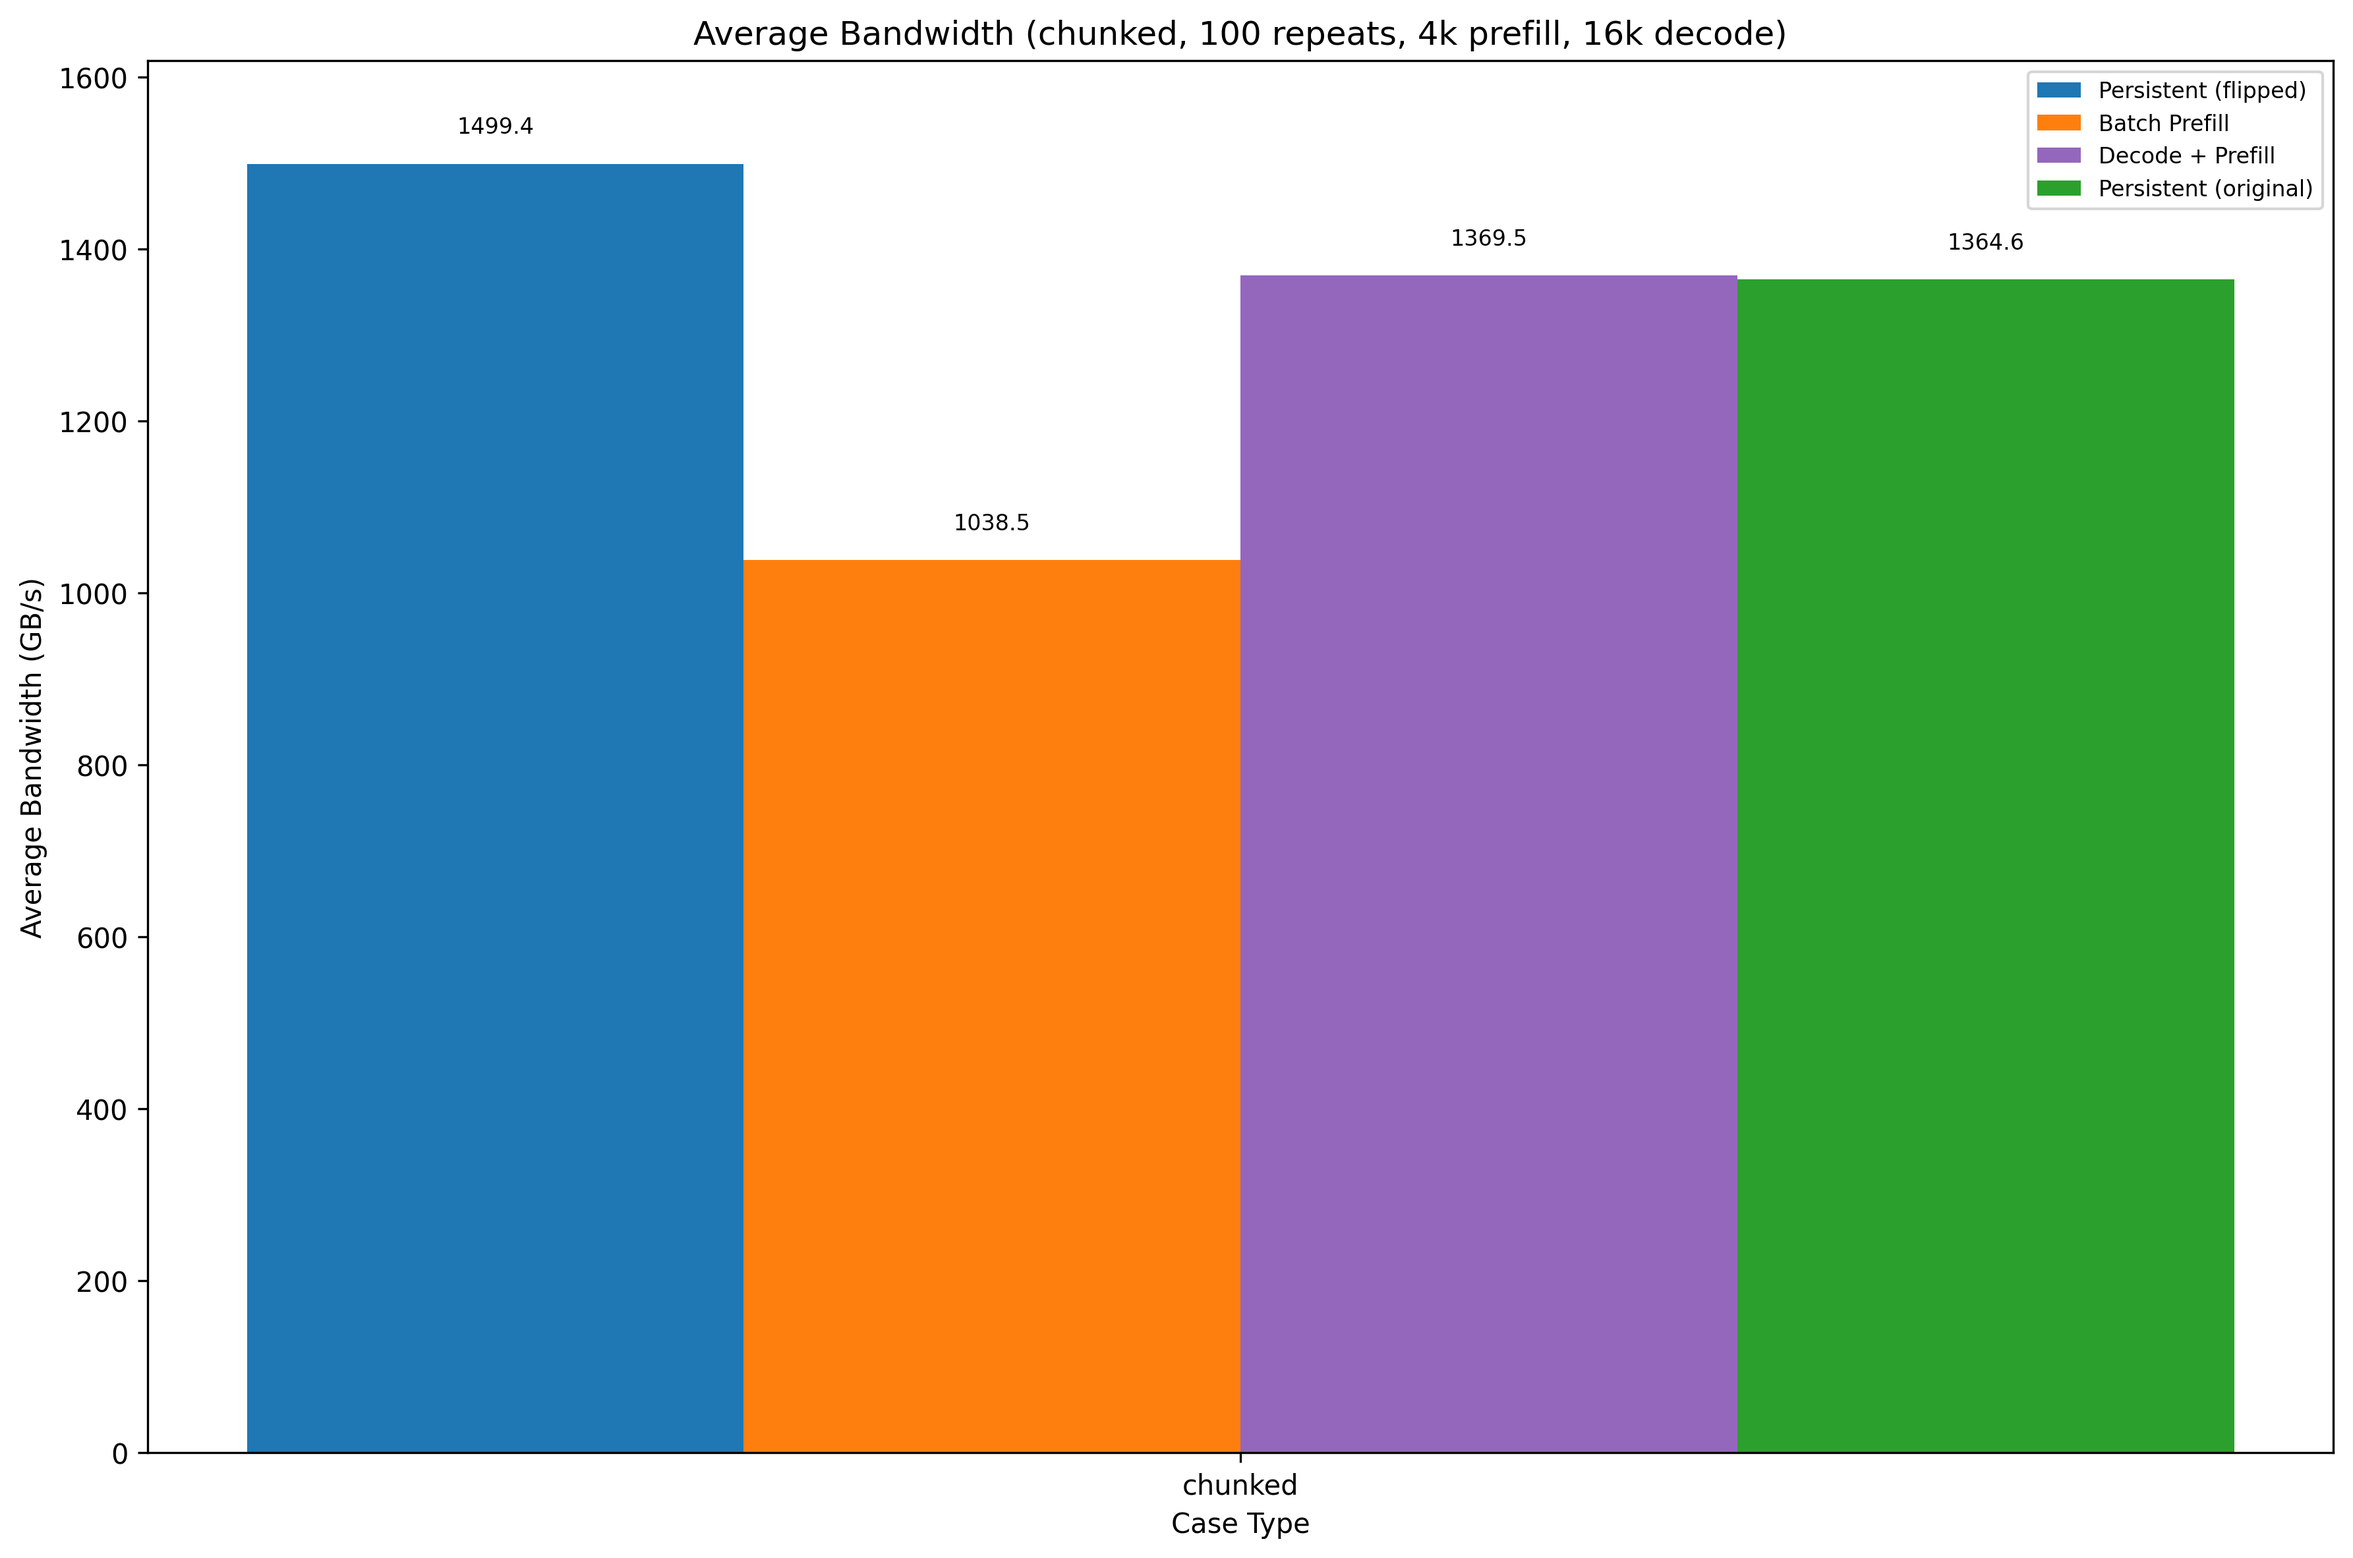
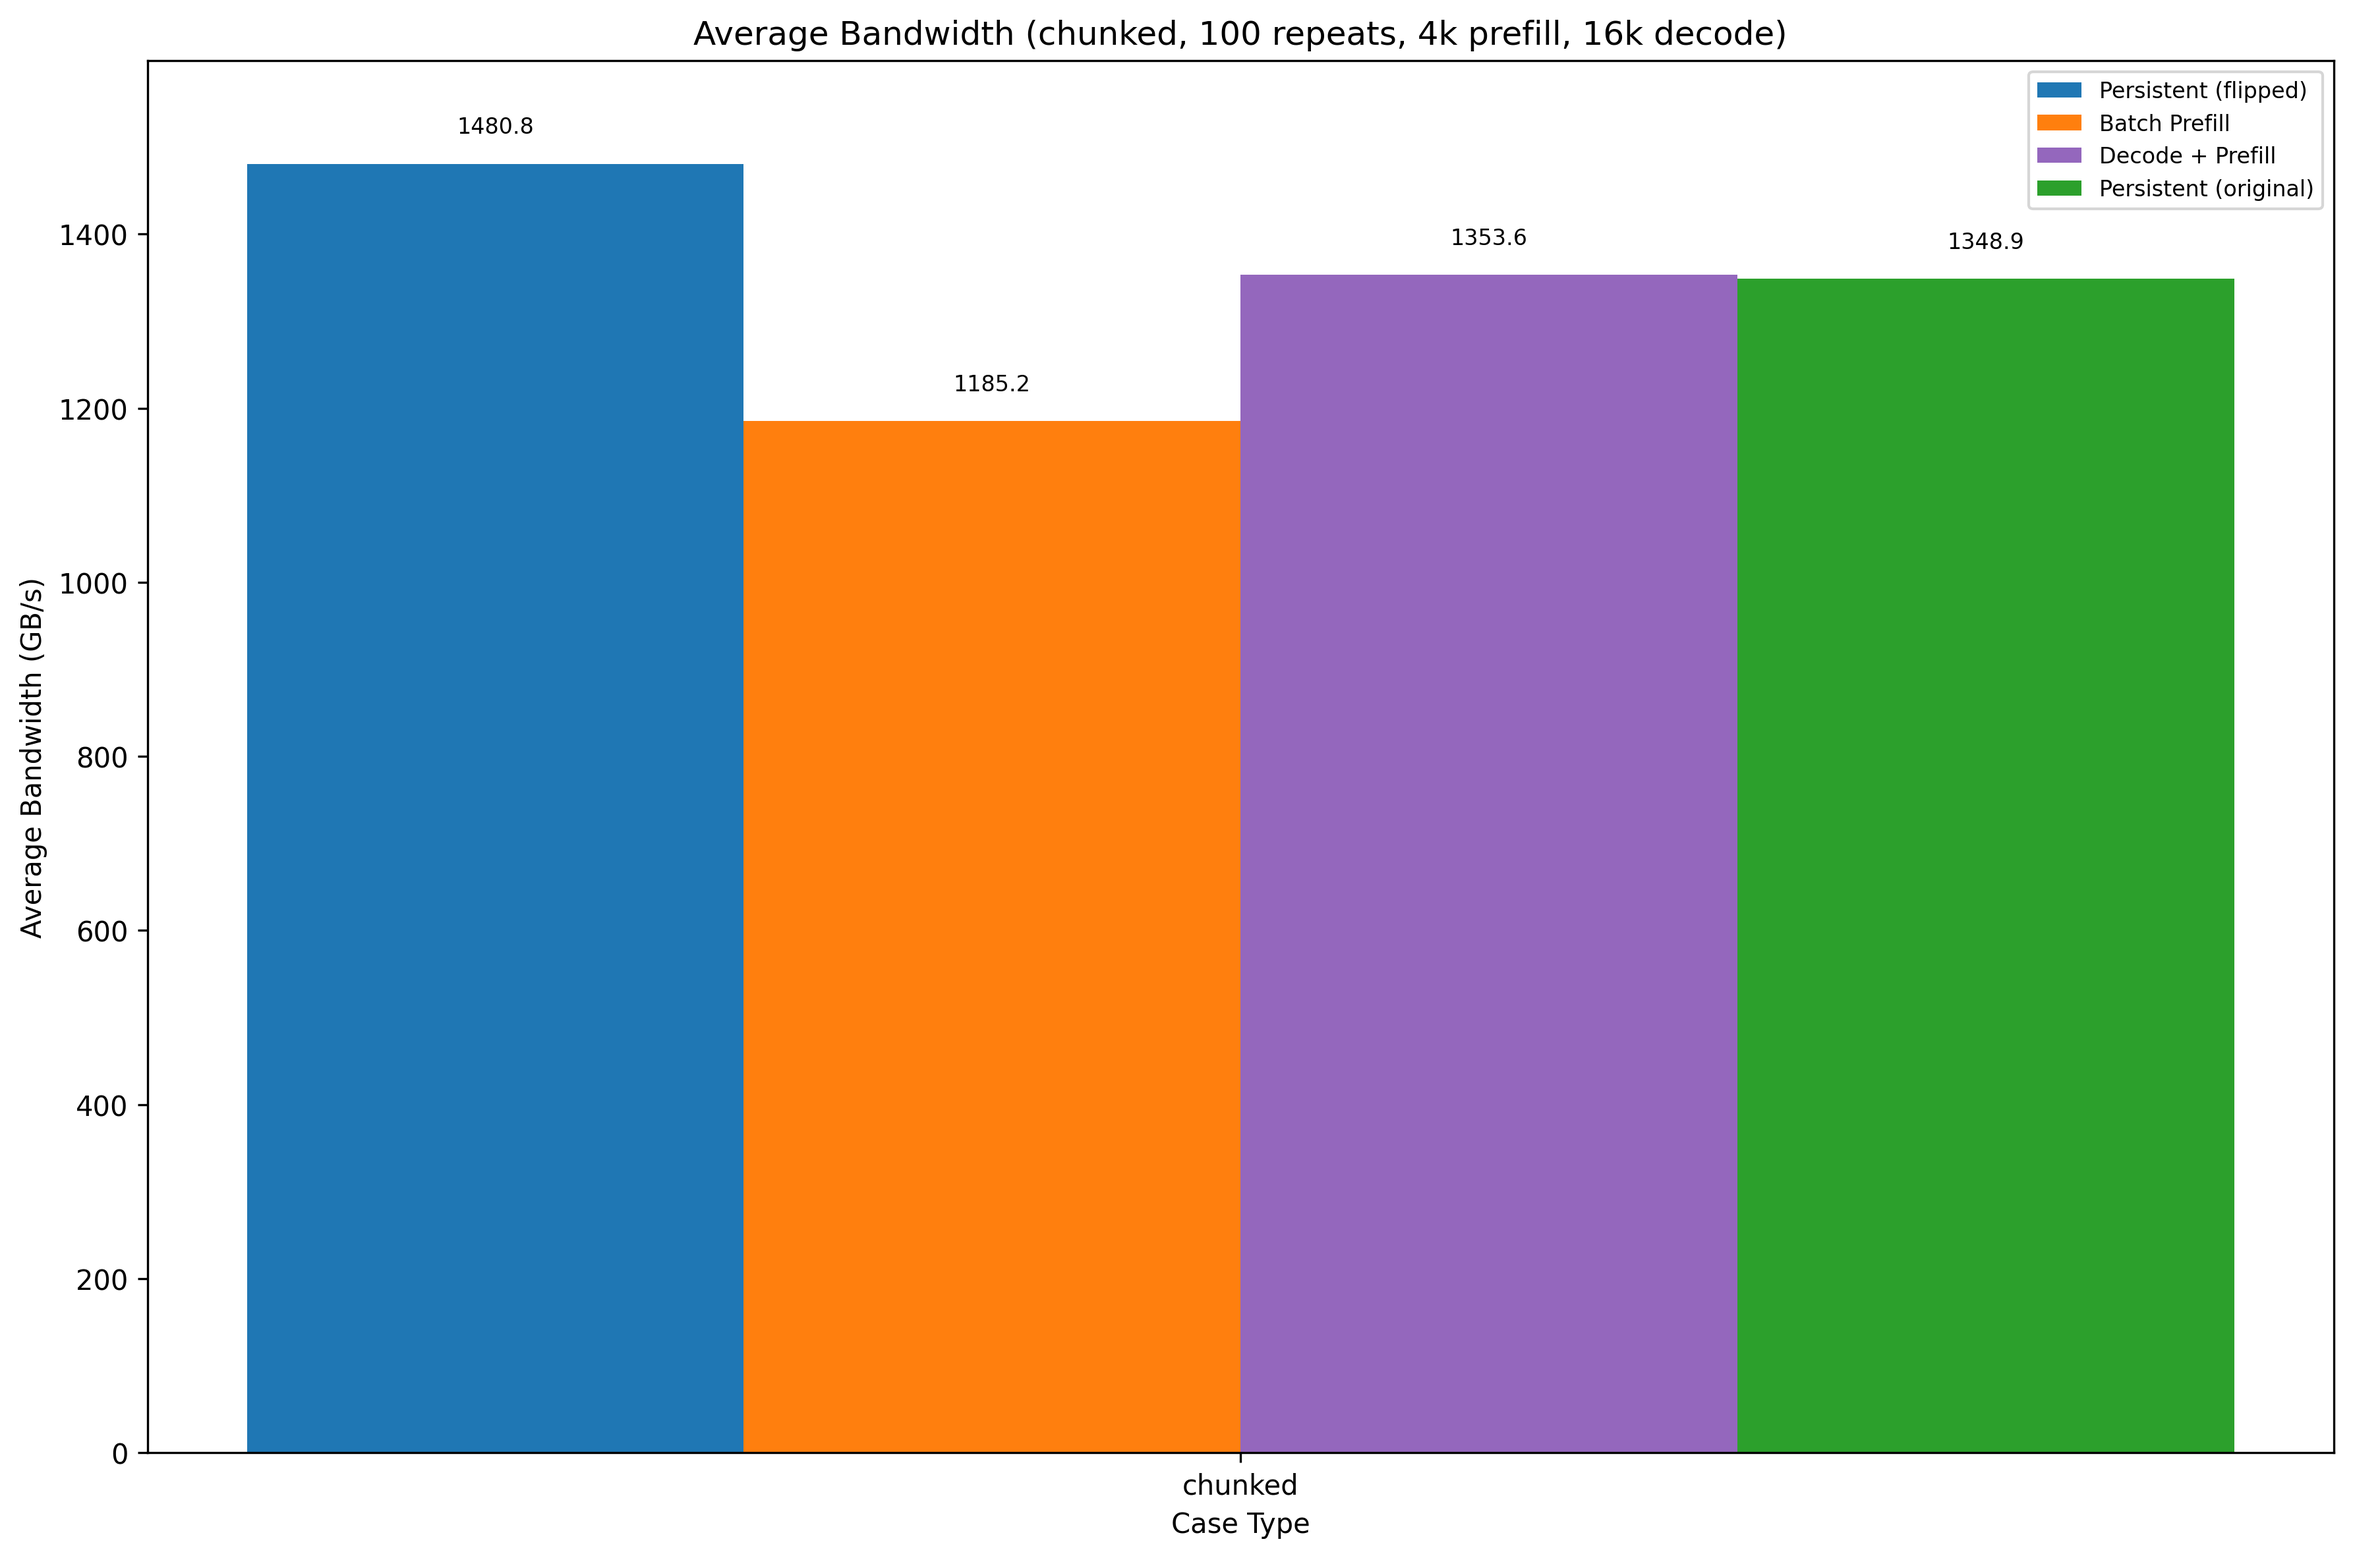
must use the second wrapper to time prefill...

diff --git a/benchmarks/bench_batch_attention.py b/benchmarks/bench_batch_attention.py
@@ -137,7 +137,6 @@ def run_bench(
     )
 
     # Separate prefill and decode wrappers
-
     q_lens_d = torch.tensor(decode_qo_lens, dtype=torch.int32, device=device)
     q_indptr_d = torch.cat(
         [torch.tensor([0], device=device), torch.cumsum(q_lens_d, 0)], dim=0
@@ -177,32 +176,33 @@ def run_bench(
             lambda: wrapper_decode.run(q_d, kv_data_d), repeat_iters=repeats
         )
         ms_decode = (
-            np.mean(measurements_decode) + (end_time_d - start_time_d) / NUM_LAYERS
+            np.mean(measurements_decode)
+            + (end_time_d - start_time_d) * 1000 / NUM_LAYERS
         )
     else:
         ms_decode = 0
 
-    if len(prefill_qo_lens) > 0:
-        wrapper_prefill = flashinfer.BatchPrefillWithPagedKVCacheWrapper(
-            torch.empty(128 * 1024 * 1024, dtype=torch.uint8, device=device),
-            kv_layout="NHD",
-            backend="fa2",
-        )
-        q_lens_p = torch.tensor(prefill_qo_lens, dtype=torch.int32, device=device)
-        q_indptr_p = torch.cat(
-            [torch.tensor([0], device=device), torch.cumsum(q_lens_p, 0)], dim=0
-        ).int()
-        seq_lens_p = torch.tensor(prefill_kv_lens, dtype=torch.int32, device=device)
-        seq_lens_blocks_p = torch.ceil(seq_lens_p / page_block_size).int()
-        kv_indptr_p = torch.cat(
-            [torch.tensor([0], device=device), torch.cumsum(seq_lens_blocks_p, 0)],
-            dim=0,
-        ).int()
-        num_blocks_p = kv_indptr_p[-1].item()
-        q_p = q[q_indptr_d[-1].item() :]
-        kv_data_p = kv_data[num_blocks_d:]
-        last_page_len_p = (seq_lens_p - 1) % page_block_size + 1
+    wrapper_prefill = flashinfer.BatchPrefillWithPagedKVCacheWrapper(
+        torch.empty(128 * 1024 * 1024, dtype=torch.uint8, device=device),
+        kv_layout="NHD",
+        backend="fa2",
+    )
+    q_lens_p = torch.tensor(prefill_qo_lens, dtype=torch.int32, device=device)
+    q_indptr_p = torch.cat(
+        [torch.tensor([0], device=device), torch.cumsum(q_lens_p, 0)], dim=0
+    ).int()
+    seq_lens_p = torch.tensor(prefill_kv_lens, dtype=torch.int32, device=device)
+    seq_lens_blocks_p = torch.ceil(seq_lens_p / page_block_size).int()
+    kv_indptr_p = torch.cat(
+        [torch.tensor([0], device=device), torch.cumsum(seq_lens_blocks_p, 0)],
+        dim=0,
+    ).int()
+    num_blocks_p = kv_indptr_p[-1].item()
+    q_p = q[q_indptr_d[-1].item() :]
+    kv_data_p = kv_data[num_blocks_d:]
+    last_page_len_p = (seq_lens_p - 1) % page_block_size + 1
 
+    if len(prefill_qo_lens) > 0:
         start_time_p = time.perf_counter()
         wrapper_prefill.plan(
             q_indptr_p.to(device),
@@ -222,12 +222,36 @@ def run_bench(
             lambda: wrapper_prefill.run(q_p, kv_data_p), repeat_iters=repeats
         )
         ms_prefill = (
-            np.mean(measurements_prefill) + (end_time_p - start_time_p) / NUM_LAYERS
+            np.mean(measurements_prefill)
+            + (end_time_p - start_time_p) * 1000 / NUM_LAYERS
         )
     else:
         ms_prefill = 0
 
     ms_separate = ms_prefill + ms_decode
+
+    # Somehow the first wrapper suffers significant latency...
+    # have to use the new wrapper here
+    start_time = time.perf_counter()
+    wrapper_prefill.plan(
+        q_indptr.to(device),
+        kv_indptr.to(device),
+        torch.arange(num_blocks, dtype=torch.int32, device=device),
+        last_page_len,
+        num_qo_heads,
+        num_kv_heads,
+        head_dim,
+        page_block_size,
+        causal=causal,
+        q_data_type=torch.bfloat16,
+        kv_data_type=torch.bfloat16,
+    )
+    end_time = time.perf_counter()
+    measurements_old = bench_gpu_time(
+        lambda: wrapper_prefill.run(q, kv_data), repeat_iters=repeats
+    )
+    ms_old = np.mean(measurements_old) + (end_time - start_time) * 1000 / NUM_LAYERS
+    print(f"ms_old: {ms_old}, ms_prefill: {ms_prefill}")
 
     total_bytes = (
         q.numel() * q.element_size() + kv_data.numel() * kv_data.element_size()
@@ -274,11 +298,11 @@ def synthesize_seq_len_configs(
 def main(args: argparse.Namespace) -> None:
     np.random.seed(42)
     torch.random.manual_seed(42)
-    decode_len = 2048
+    decode_len = 16384
     prefill_len = 8192
     prefill_chunk_size = 8192
     num_prefill_reqs = 1
-    num_decode_reqs = 128
+    num_decode_reqs = 0  # 128
 
     decode_lens, prefill_lens = synthesize_seq_len_configs(
         decode_len, prefill_len, prefill_chunk_size, num_prefill_reqs, num_decode_reqs
